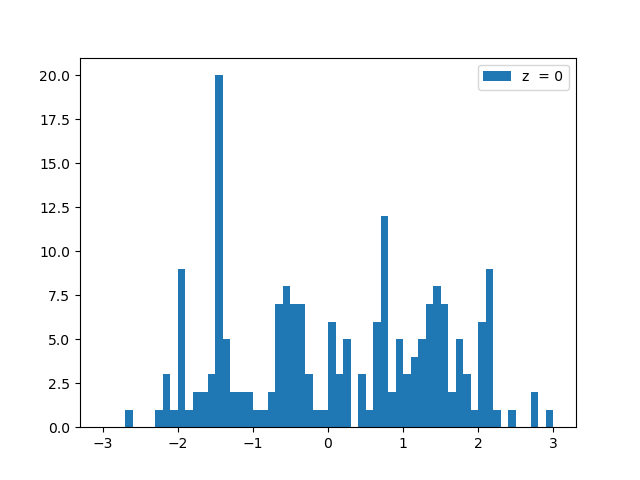
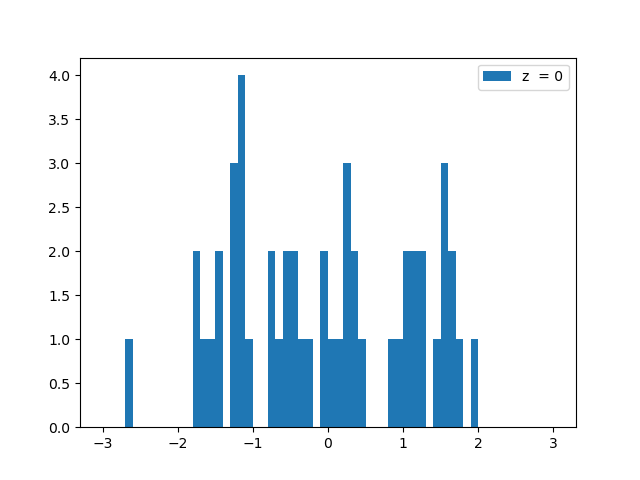
generic commit

diff --git a/scripts/transport/c_transport.py b/scripts/transport/c_transport.py
@@ -434,8 +434,8 @@ def compositional_gen(trained_models, ref_sample):
 
     for i in range(1, len(trained_models)):
         model = trained_models[i]
-        Y_eta = ref_sample[:, i]
-        X = model.map(X, Y_eta)
+        #Y_eta = ref_sample[:, i]
+        X = model.map(X, model.Y_eta_test)
     return X
 
 
@@ -501,7 +501,7 @@ def run():
     slice_range = [-3,3]
     process_funcs = []
     #process_funcs = [flip_2tensor, flip_2tensor ]
-    conditional_transport_exp(ref_gen, target_gen, exp_name= 'spiral_hybrid', N = 5000, n_iter = 5000,
+    conditional_transport_exp(ref_gen, target_gen, exp_name= 'spiral_hybrid', N = 5000, n_iter = 10000,
                               plt_range=range, slice_range= slice_range, process_funcs=process_funcs, slice_vals=[0])
 
 
